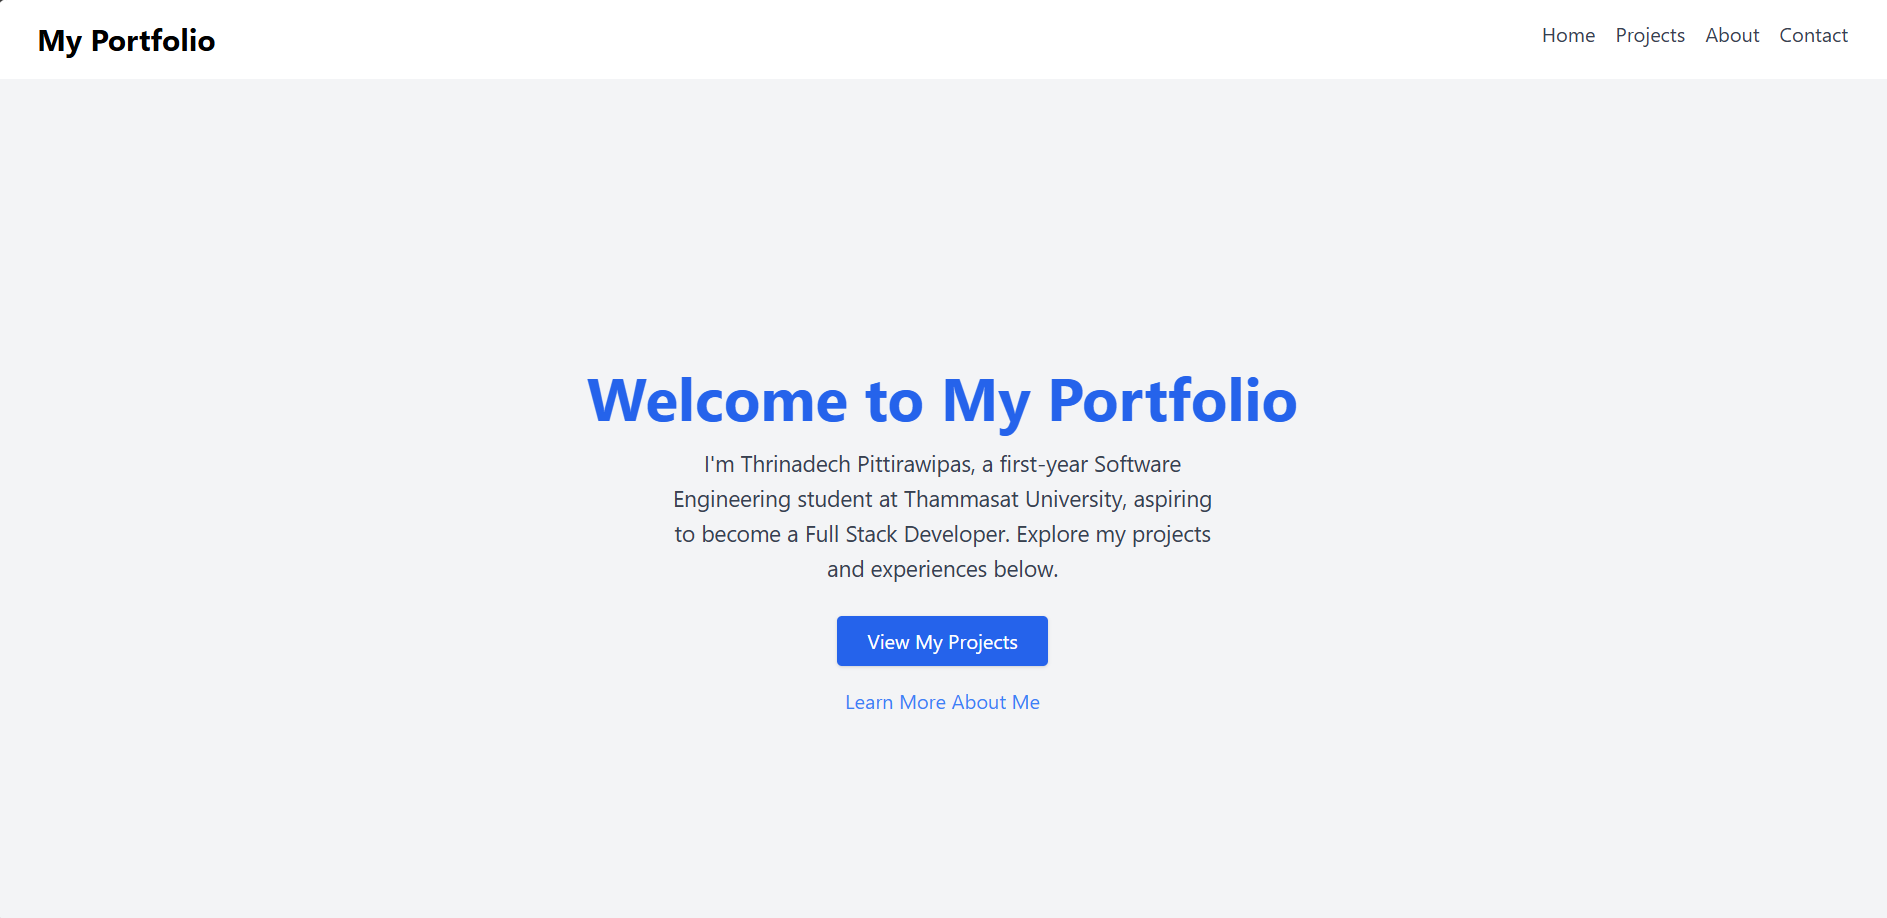
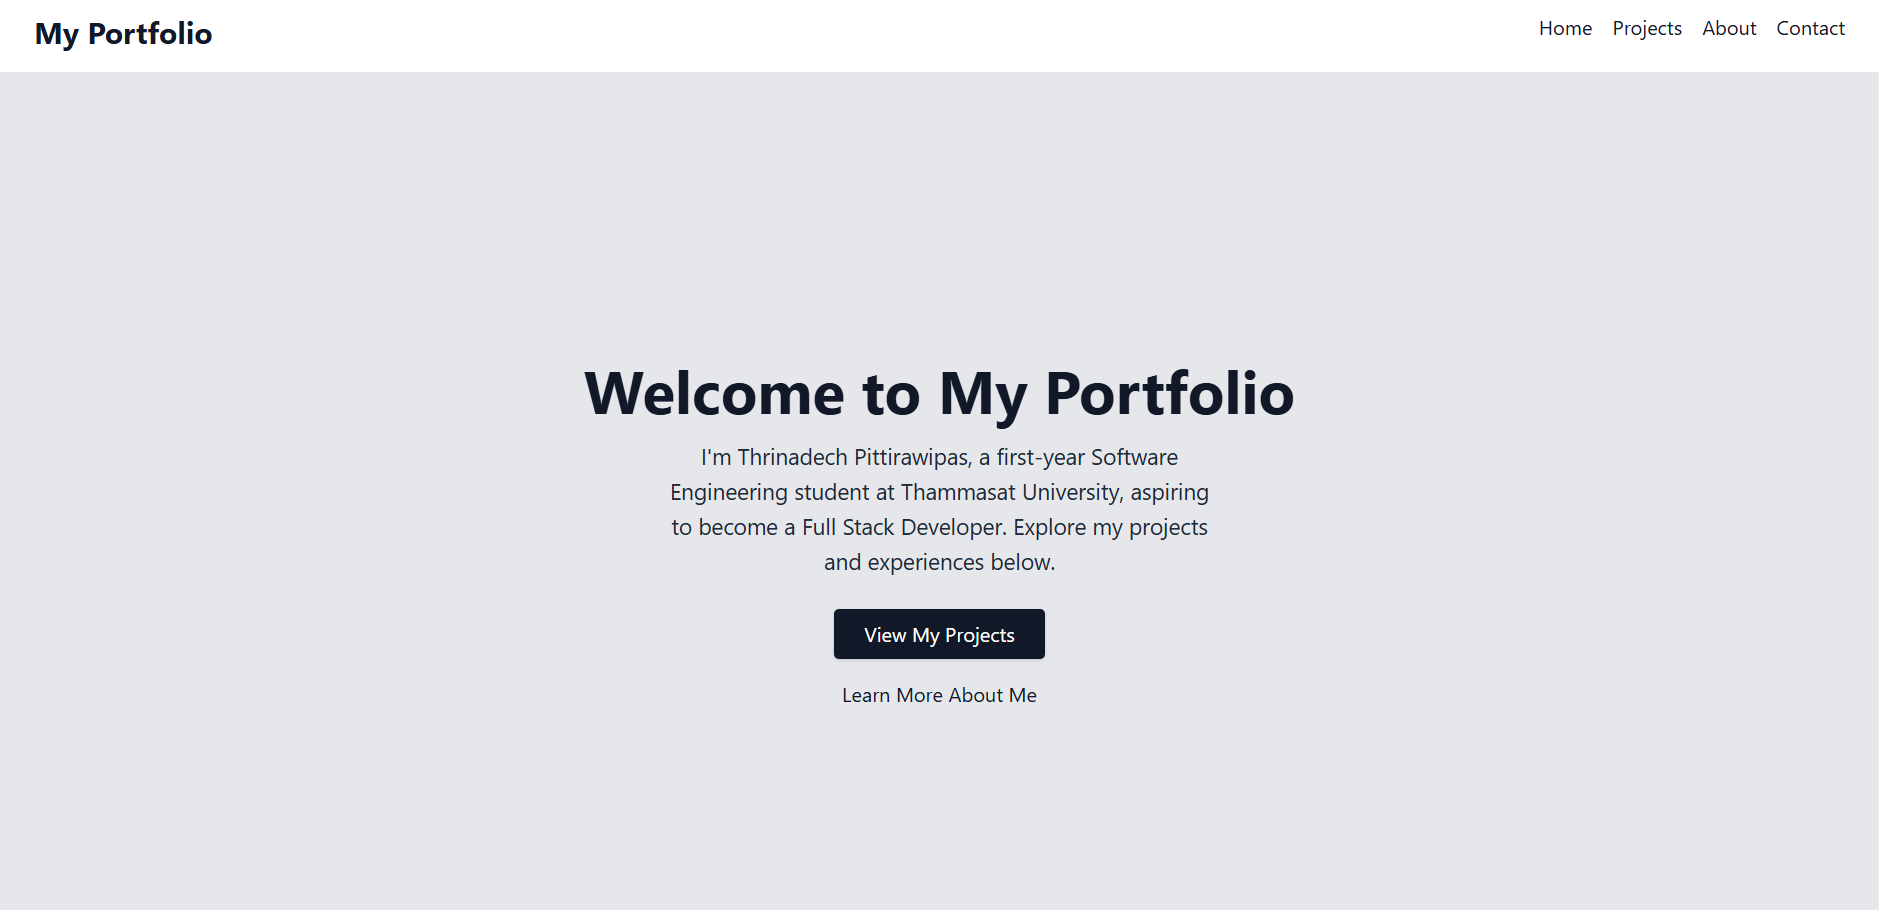
up restaurant-management

Changed region(s): [[0.3087, 0.4, 0.71, 0.7692], [0.0, 0.0308, 1.0, 0.0923]]

diff --git a/pages/projects.js b/pages/projects.js
@@ -4,24 +4,29 @@ import ProjectCard from "../components/ProjectCard";
 export default function Projects() {
   const fullStackProjects = [
     {
+      title: "Restaurant Management System",
+      description: "Full-Stack restaurant management system with Next.js, PostgreSQL, and WebSocket. role-based access control (RBAC), employee management, and real-time updates for kitchen and cashier systems",
+      github: "https://github.com/ixone0/restaurant_management",
+      image: "/images/restaurant-management.png",
+    },
+    {
       title: "TodoList React",
-      description: "A simple todo app using React.",
+      description: "A simple todo app using React and MySQL.",
       github: "https://github.com/ixone0/todo-react",
       image: "/images/todolist.png",
     },
     {
-      title: "User Management System",
-      description: "Full-Stack user management system with React, Node.js, and Docker.",
+      title: "User Management System with docker",
+      description: "Full-Stack user management system with React, MySQL, and Docker.",
       github: "https://github.com/ixone0/user-management-with-docker",
       image: "/images/user-management.png",
     },
     {
       title: "Portfolio",
-      description: "My Portfolio with next.js, tailwindcss and deploy on vercel",
+      description: "My Portfolio with Next.js, Tailwind CSS, and deployed on Vercel.",
       github: "https://github.com/ixone0/portfolio-next",
       image: "/images/portfolio.png",
     },
-    
   ];
 
   const gameProjects = [
@@ -58,10 +63,11 @@ export default function Projects() {
   return (
     <>
       <Navbar />
-      <div className="min-h-screen p-10 bg-gray-50">
-      <h1 className="text-4xl font-bold text-center text-blue-700 mb-8 bg-blue-100 p-4 rounded shadow">Projects</h1>
+      <div className="min-h-screen p-10 bg-gray-200">
+        <h1 className="text-4xl font-bold text-center text-gray-900 mb-8 bg-gray-300 p-4 rounded shadow">Projects</h1>
+        
         {/* Full-Stack Projects */}
-        <h2 className="text-3xl font-semibold mt-6 text-gray-800">Full-Stack Projects</h2>
+        <h2 className="text-3xl font-semibold mt-6 text-gray-900">Full-Stack Projects</h2>
         <div className="grid md:grid-cols-2 gap-8 mt-4">
           {fullStackProjects.map((project, index) => (
             <ProjectCard key={index} {...project} />
@@ -69,7 +75,7 @@ export default function Projects() {
         </div>
 
         {/* Game Projects */}
-        <h2 className="text-3xl font-semibold mt-10 text-gray-800">Game Development</h2>
+        <h2 className="text-3xl font-semibold mt-10 text-gray-900">Game Development</h2>
         <div className="grid md:grid-cols-2 gap-8 mt-4">
           {gameProjects.map((project, index) => (
             <ProjectCard key={index} {...project} />

diff --git a/pages/about.js b/pages/about.js
@@ -4,23 +4,24 @@ export default function About() {
   return (
     <>
       <Navbar />
-      <div className="min-h-screen flex flex-col items-center justify-center bg-gray-100 p-6">
+      <div className="min-h-screen flex flex-col items-center justify-center bg-gray-200 p-6">
         <div className="bg-white shadow-lg rounded-2xl p-10 max-w-2xl w-full text-center">
-          <h1 className="text-4xl font-bold text-blue-600 mb-6">About Me</h1>
-          <p className="text-lg text-gray-700 mb-6">
+          <h1 className="text-4xl font-bold text-gray-900 mb-6">About Me</h1>
+          <p className="text-lg text-gray-800 mb-6">
             I am a first-year Software Engineering student at Thammasat University, passionate about technology and aspiring to become a Full Stack Developer. I have experience in both game development and web applications, and I love creating projects that challenge my skills and expand my knowledge.
           </p>
-          <h2 className="text-2xl font-semibold text-gray-800 mb-4">Skills</h2>
-          <ul className="grid grid-cols-2 gap-3 text-gray-700 text-left">
+          <h2 className="text-2xl font-semibold text-gray-900 mb-4">Skills</h2>
+          <ul className="grid grid-cols-2 gap-3 text-gray-800 text-left">
             <li>✅ C#</li>
             <li>✅ HTML, CSS, JavaScript</li>
-            <li>✅ React, Node.js</li>
-            <li>✅ MySQL</li>
+            <li>✅ React.js, Node.js</li>
+            <li>✅ Next.js, Tailwind CSS</li>
+            <li>✅ MySQL, PostgreSQL</li>
             <li>✅ Docker, GitHub</li>
             <li>✅ Unity (Game Development)</li>
           </ul>
-          <h2 className="text-2xl font-semibold text-gray-800 mt-8 mb-4">Interests</h2>
-          <p className="text-lg text-gray-700">
+          <h2 className="text-2xl font-semibold text-gray-900 mt-8 mb-4">Interests</h2>
+          <p className="text-lg text-gray-800">
             I am passionate about exploring new technologies and enjoy engaging in sports, particularly volleyball. Additionally, I express my creativity through music by playing the guitar and singing. My objective is to continuously expand my knowledge and enhance my skills in software development.
           </p>
         </div>

diff --git a/pages/index.js b/pages/index.js
@@ -4,17 +4,17 @@ export default function Home() {
   return (
     <>
       <Navbar />
-      <div className="min-h-screen flex flex-col items-center justify-center bg-gray-100 text-center">
-        <h1 className="text-5xl font-bold text-blue-600">Welcome to My Portfolio</h1>
-        <p className="text-lg text-gray-700 mt-4 max-w-md">
+      <div className="min-h-screen flex flex-col items-center justify-center bg-gray-200 text-center">
+        <h1 className="text-5xl font-bold text-gray-900">Welcome to My Portfolio</h1>
+        <p className="text-lg text-gray-800 mt-4 max-w-md">
           I'm Thrinadech Pittirawipas, a first-year Software Engineering student at Thammasat University, 
           aspiring to become a Full Stack Developer. Explore my projects and experiences below.
         </p>
         <div className="mt-6 flex flex-col space-y-4">
-          <a href="/projects" className="bg-blue-600 text-white px-6 py-2 rounded shadow hover:bg-blue-700 transition">
+          <a href="/projects" className="bg-gray-900 text-white px-6 py-2 rounded shadow transition hover:bg-gray-800">
             View My Projects
           </a>
-          <a href="/about" className="text-blue-500 hover:underline">
+          <a href="/about" className="text-gray-900 hover:underline">
             Learn More About Me
           </a>
         </div>

diff --git a/pages/contact.js b/pages/contact.js
@@ -4,10 +4,10 @@ export default function Contact() {
   return (
     <>
       <Navbar />
-      <div className="min-h-screen flex flex-col items-center justify-center bg-gray-100 p-6">
+      <div className="min-h-screen flex flex-col items-center justify-center bg-gray-200 p-6">
         <div className="bg-white shadow-lg rounded-2xl p-8 max-w-lg w-full text-center">
-          <h1 className="text-4xl font-bold text-blue-600 mb-6">Contact Me</h1>
-          <p className="text-lg text-gray-700 mb-6">
+          <h1 className="text-4xl font-bold text-gray-900 mb-6">Contact Me</h1>
+          <p className="text-lg text-gray-800 mb-6">
             If you have any inquiries or would like to connect, please feel free to reach out.
           </p>
           <div className="space-y-5 text-left">
@@ -27,7 +27,7 @@ function ContactItem({ label, value, link }) {
     <div className="flex flex-col">
       <h2 className="text-xl font-semibold text-gray-800">{label}:</h2>
       {link ? (
-        <a href={link} target="_blank" rel="noopener noreferrer" className="text-blue-500 hover:underline">
+        <a href={link} target="_blank" rel="noopener noreferrer" className="text-gray-900 hover:underline">
           {value}
         </a>
       ) : (

diff --git a/components/Navbar.js b/components/Navbar.js
@@ -3,12 +3,12 @@ import Link from "next/link";
 const Navbar = () => {
   return (
     <nav className="bg-white shadow-md py-4 px-8 flex justify-between">
-      <h1 className="text-2xl font-bold">My Portfolio</h1>
+      <h1 className="text-2xl font-bold text-gray-900">My Portfolio</h1>
       <div className="space-x-4">
-        <Link href="/" className="text-gray-700 hover:text-blue-500">Home</Link>
-        <Link href="/projects" className="text-gray-700 hover:text-blue-500">Projects</Link>
-        <Link href="/about" className="text-gray-700 hover:text-blue-500">About</Link>
-        <Link href="/contact" className="text-gray-700 hover:text-blue-500">Contact</Link>
+        <Link href="/" className="text-gray-900 hover:text-gray-700">Home</Link>
+        <Link href="/projects" className="text-gray-900 hover:text-gray-700">Projects</Link>
+        <Link href="/about" className="text-gray-900 hover:text-gray-700">About</Link>
+        <Link href="/contact" className="text-gray-900 hover:text-gray-700">Contact</Link>
       </div>
     </nav>
   );

diff --git a/components/ProjectCard.js b/components/ProjectCard.js
@@ -9,13 +9,13 @@ const ProjectCard = ({ title, description, github, itch, image }) => {
       <h2 className="text-xl font-bold mt-2">{title}</h2>
       <p className="text-gray-600 mt-1">{description}</p>
       {github && (
-        <a href={github} target="_blank" className="text-blue-500 mt-2 inline-block">
+        <a href={github} target="_blank" className="text-black-500 mt-2 inline-block hover:underline" >
           View on GitHub
         </a>
       )}
       <div>
         {itch && (
-          <a href={itch} target="_blank" className="text-blue-500 mt-2 inline-block">
+          <a href={itch} target="_blank" className="text-black-500 mt-2 inline-block hover:underline">
             Donwload in Itch.io
           </a>
         )}
